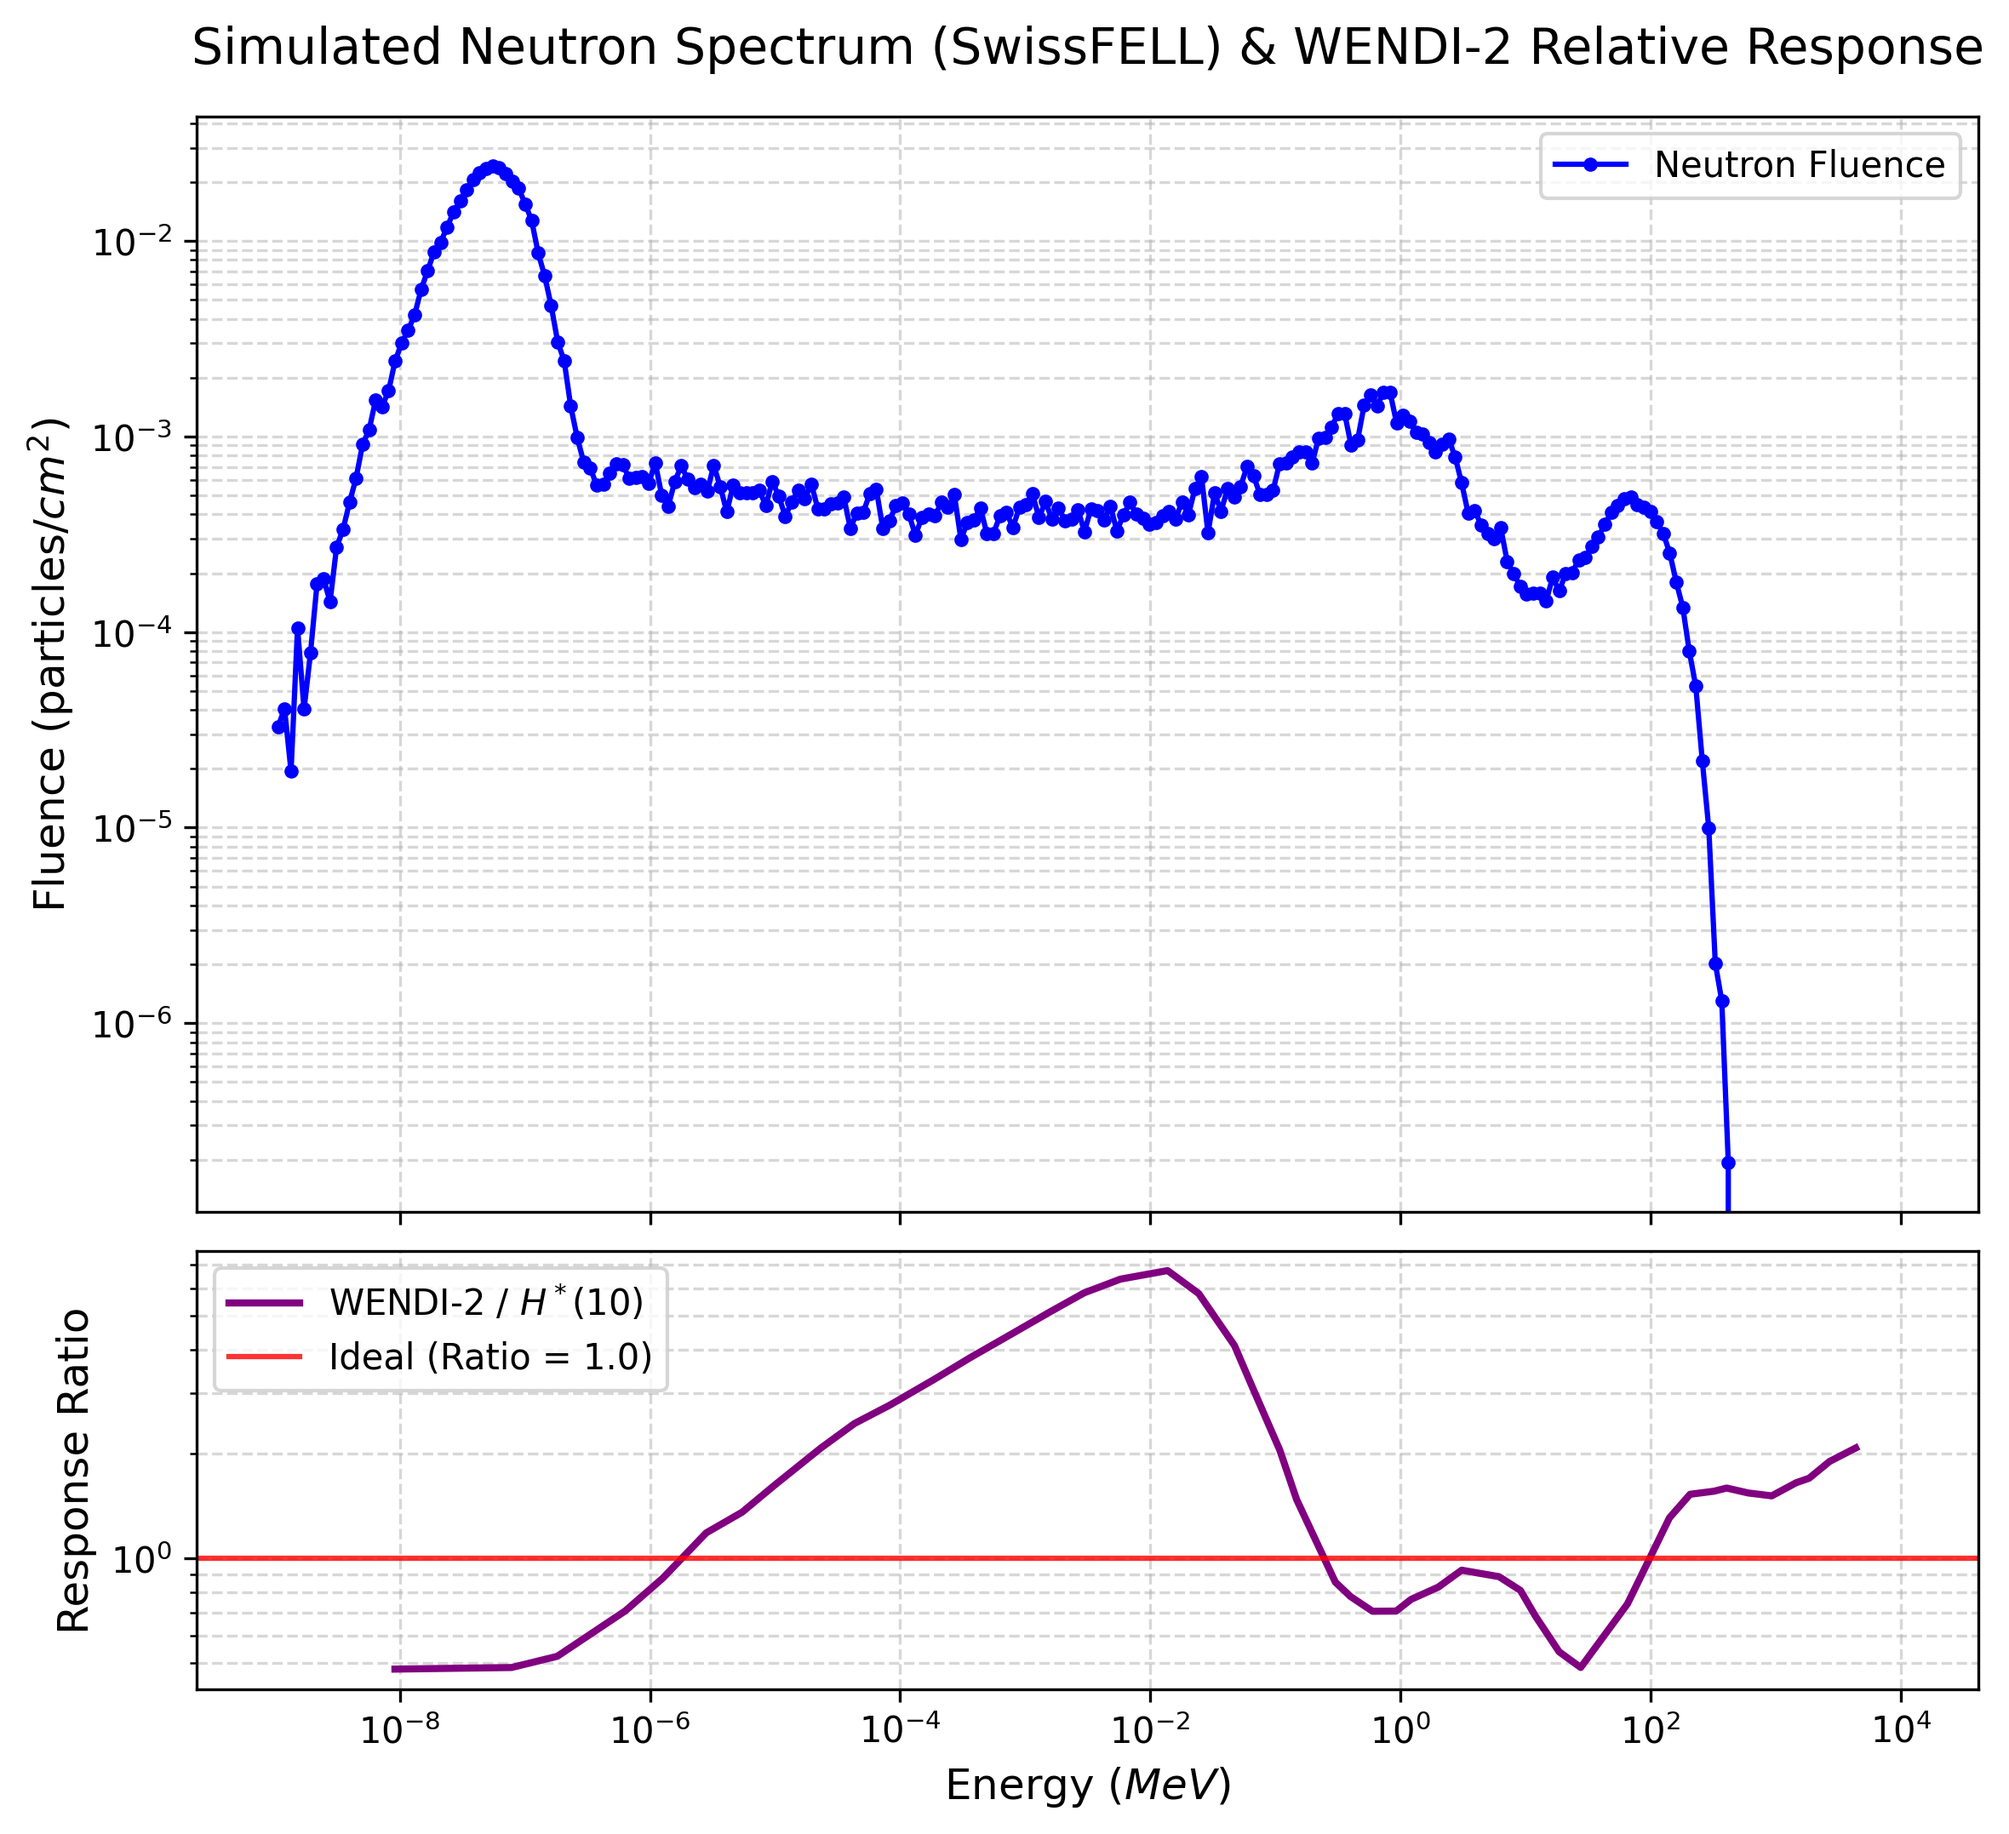
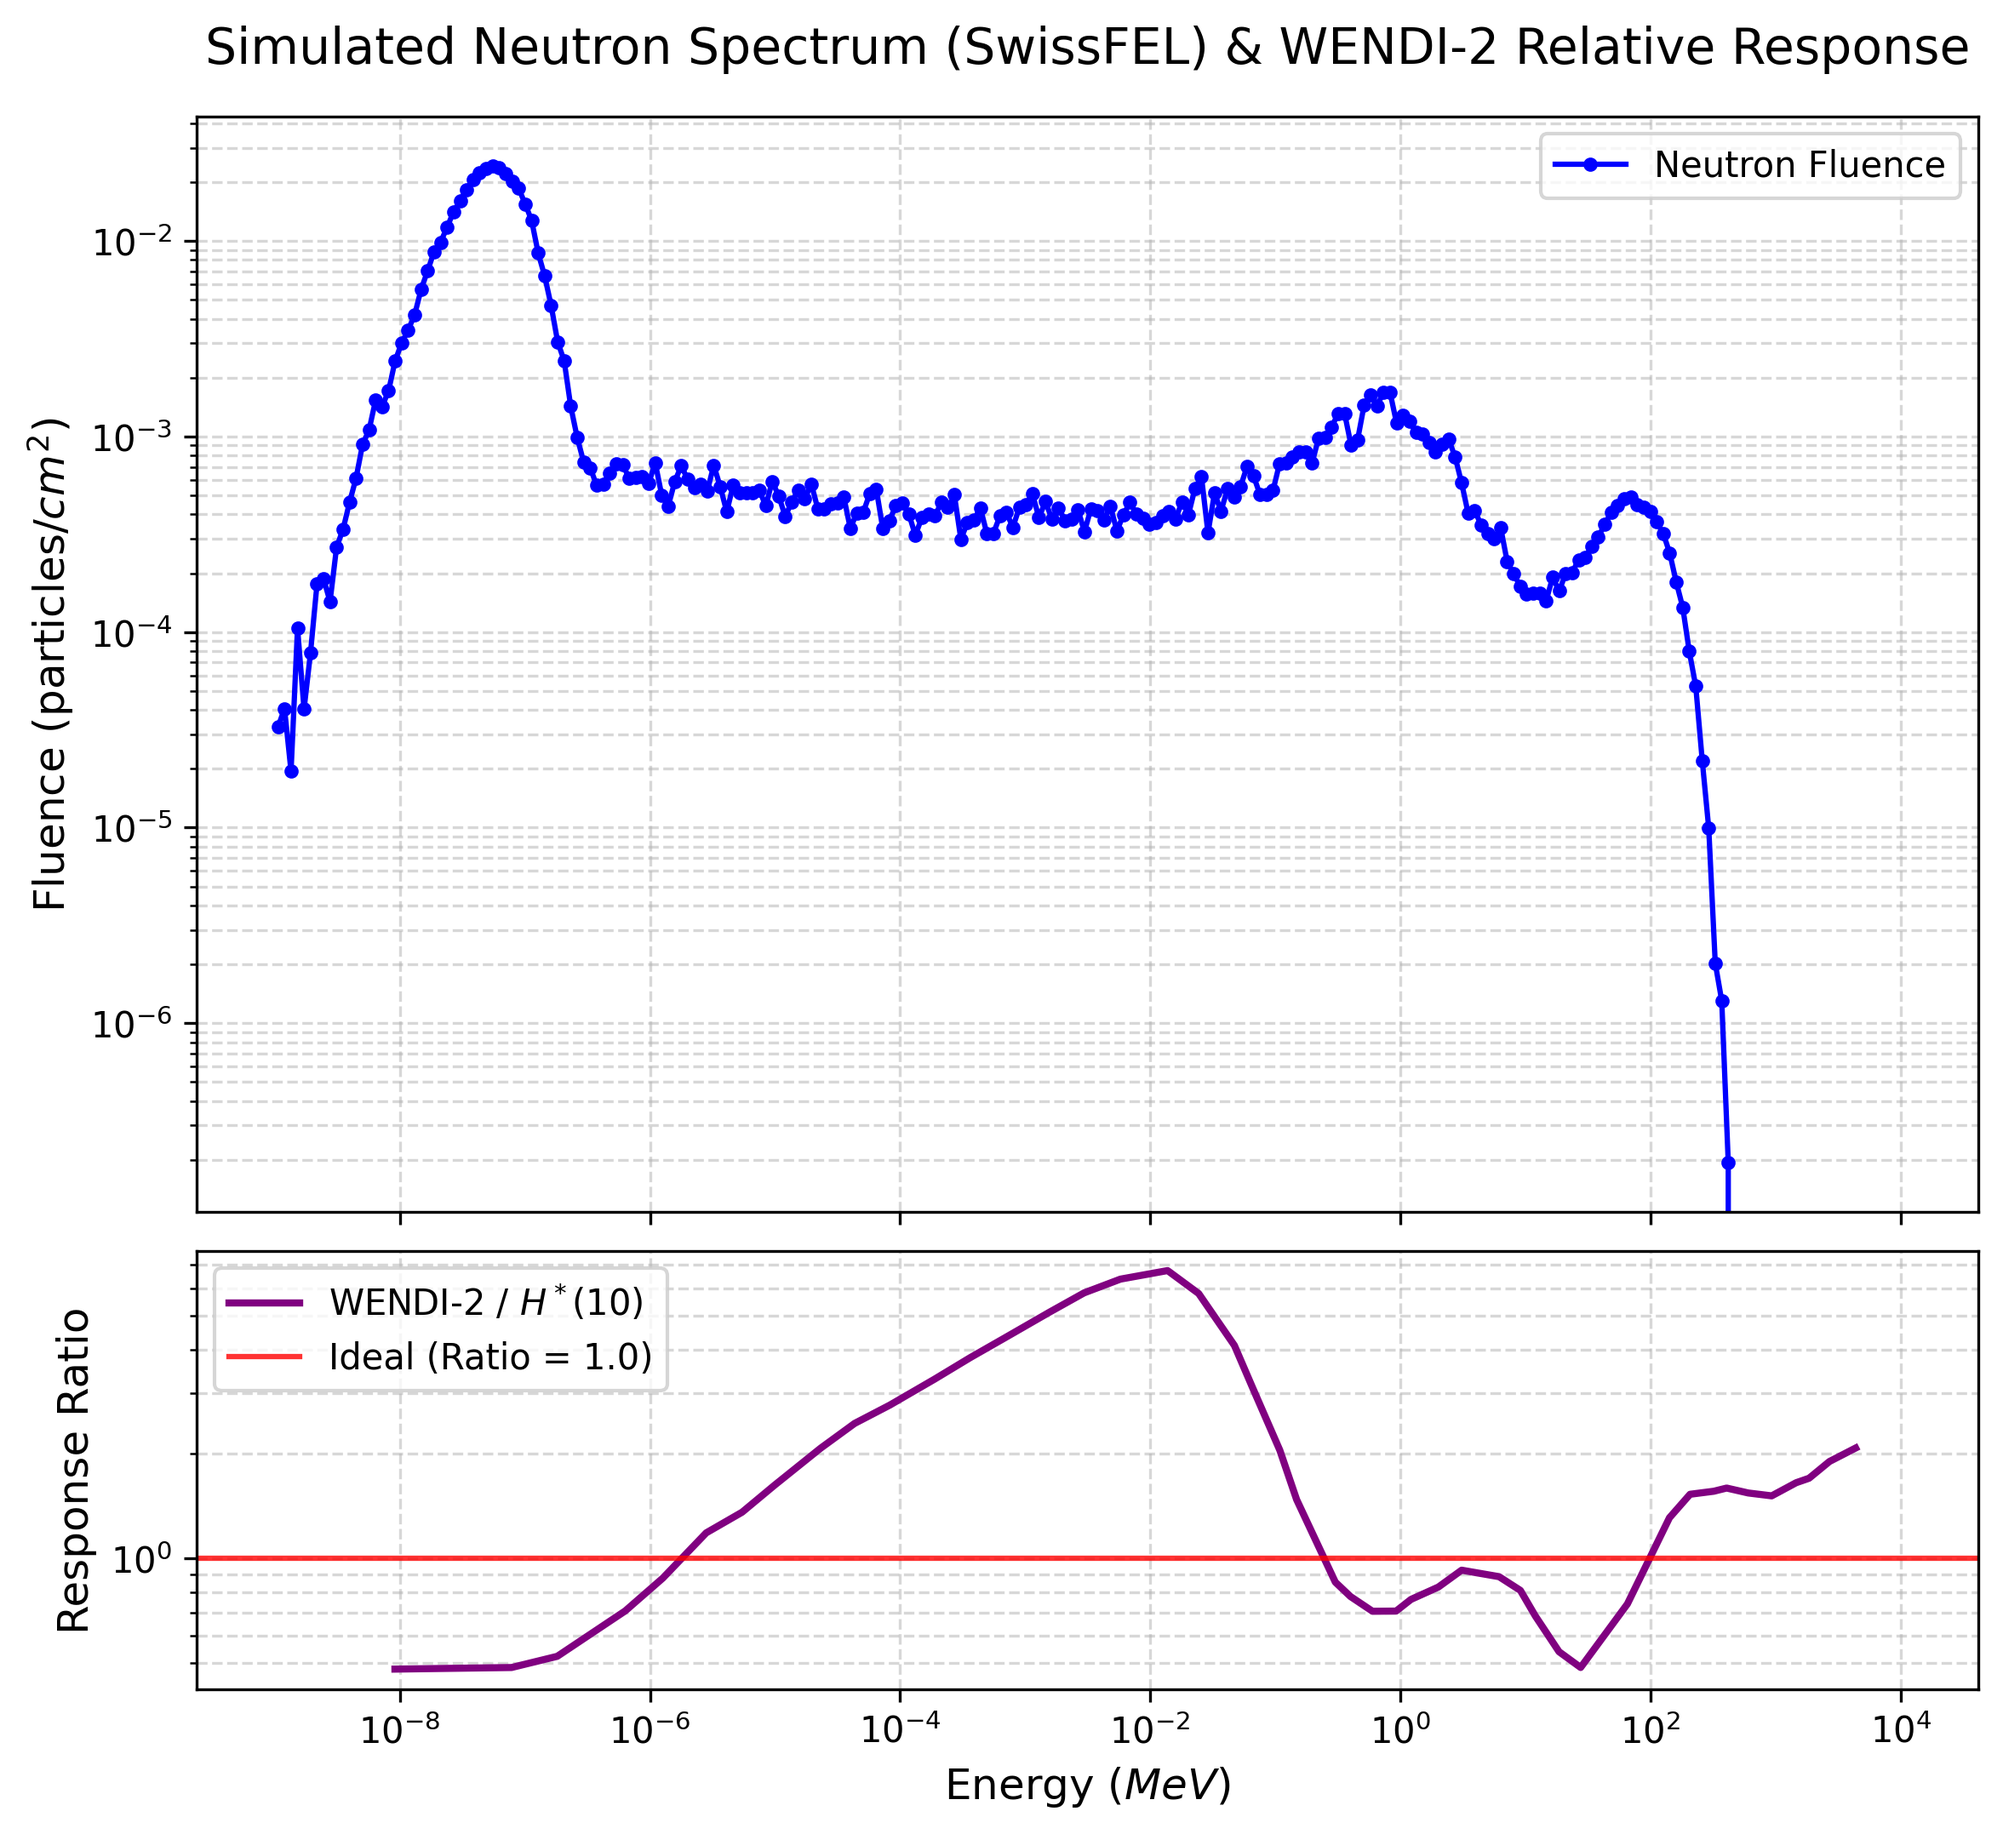
Fix SwissFEL name
Fix mispelling in code and update one image that includes the name.

diff --git a/WENDI2_responsefolding/WENDI2-NeutronFolding.py b/WENDI2_responsefolding/WENDI2-NeutronFolding.py
@@ -1,14 +1,14 @@
 '''
-This code was created to calculate the correction of the WENDI-2 neutron detector dose measurement when used in the SwissFell neutron radiation environment.
-Specifically the neutron fluence was calculated with FLUKA based on the 2025 measurement campaign at the PSI SwissFell.
+This code was created to calculate the correction of the WENDI-2 neutron detector dose measurement when used in the SwissFel neutron radiation environment.
+Specifically the neutron fluence was calculated with FLUKA based on the 2025 measurement campaign at the PSI SwissFel.
 Data for the WENDI-2 neutron response come from literature reported below in comments.
 '''
 
-# This is the lower side of the energy bins for the neutron flux simulated with FLUKA in 2025 at SwissFELL
+# This is the lower side of the energy bins for the neutron flux simulated with FLUKA in 2025 at SwissFEL
 neutron_flux_bin_min =  [1.0000000E-12, 1.1271975E-12, 1.2705742E-12, 1.4321880E-12, 1.6143588E-12, 1.8197013E-12, 2.0511626E-12, 2.3120653E-12, 2.6061542E-12, 2.9376503E-12, 3.3113124E-12, 3.7325030E-12, 4.2072678E-12, 4.7424222E-12, 5.3456462E-12, 6.0255989E-12, 6.7920400E-12, 7.6559705E-12, 8.6297905E-12, 9.7274784E-12, 1.0964789E-11, 1.2359482E-11, 1.3931579E-11, 1.5703640E-11, 1.7701103E-11, 1.9952638E-11, 2.2490567E-11, 2.5351308E-11, 2.8575930E-11, 3.2210720E-11, 3.6307842E-11, 4.0926110E-11, 4.6131807E-11, 5.1999658E-11, 5.8613885E-11, 6.6069421E-11, 7.4473282E-11, 8.3946100E-11, 9.4623837E-11, 1.0665975E-10, 1.2022661E-10, 1.3551912E-10, 1.5275682E-10, 1.7218710E-10, 1.9408886E-10, 2.1877648E-10, 2.4660432E-10, 2.7797176E-10, 3.1332906E-10, 3.5318373E-10, 3.9810782E-10, 4.4874612E-10, 5.0582555E-10, 5.7016530E-10, 6.4268890E-10, 7.2443723E-10, 8.1658386E-10, 9.2045122E-10, 1.0375304E-09, 1.1695016E-09, 1.3182593E-09, 1.4859387E-09, 1.6749463E-09, 1.8879953E-09, 2.1281434E-09, 2.3988380E-09, 2.7039644E-09, 3.0479019E-09, 3.4355871E-09, 3.8725854E-09, 4.3651691E-09, 4.9204072E-09, 5.5462706E-09, 6.2517418E-09, 7.0469484E-09, 7.9433020E-09, 8.9536698E-09, 1.0092554E-08, 1.1376303E-08, 1.2823340E-08, 1.4454436E-08, 1.6293004E-08, 1.8365434E-08, 2.0701469E-08, 2.3334646E-08, 2.6302754E-08, 2.9648398E-08, 3.3419603E-08, 3.7670489E-08, 4.2462077E-08, 4.7863153E-08, 5.3951222E-08, 6.0813683E-08, 6.8549042E-08, 7.7268297E-08, 8.7096630E-08, 9.8175100E-08, 1.1066273E-07, 1.2473876E-07, 1.4060521E-07, 1.5848983E-07, 1.7864934E-07, 2.0137311E-07, 2.2698727E-07, 2.5585948E-07, 2.8840412E-07, 3.2508845E-07, 3.6643888E-07, 4.1304892E-07, 4.6558779E-07, 5.2480937E-07, 5.9156383E-07, 6.6680923E-07, 7.5162569E-07, 8.4723058E-07, 9.5499615E-07, 1.0764694E-06, 1.2133936E-06, 1.3677343E-06, 1.5417065E-06, 1.7378076E-06, 1.9588524E-06, 2.2080135E-06, 2.4888673E-06, 2.8054451E-06, 3.1622910E-06, 3.5645262E-06, 4.0179252E-06, 4.5289949E-06, 5.1050720E-06, 5.7544244E-06, 6.4863725E-06, 7.3114229E-06, 8.2414172E-06, 9.2897062E-06, 1.0471332E-05, 1.1803259E-05, 1.3304604E-05, 1.4996917E-05, 1.6904489E-05, 1.9054694E-05, 2.1478407E-05, 2.4210405E-05, 2.7289909E-05, 3.0761115E-05, 3.4673852E-05, 3.9084276E-05, 4.4055701E-05, 4.9659477E-05, 5.5976037E-05, 6.3096049E-05, 7.1121707E-05, 8.0168211E-05, 9.0365400E-05, 1.0185967E-04, 1.1481595E-04, 1.2942024E-04, 1.4588219E-04, 1.6443802E-04, 1.8535415E-04, 2.0893072E-04, 2.3550619E-04, 2.6546197E-04, 2.9922806E-04, 3.3728912E-04, 3.8019146E-04, 4.2855091E-04, 4.8306148E-04, 5.4450566E-04, 6.1376544E-04, 6.9183490E-04, 7.7983458E-04, 8.7902747E-04, 9.9083758E-04, 1.1168697E-03, 1.2589328E-03, 1.4190659E-03, 1.5995674E-03, 1.8030284E-03, 2.0323689E-03, 2.2908812E-03, 2.5822758E-03, 2.9107349E-03, 3.2809728E-03, 3.6983043E-03, 4.1687191E-03, 4.6989699E-03, 5.2966666E-03, 5.9703896E-03, 6.7298091E-03, 7.5858231E-03, 8.5507212E-03, 9.6383514E-03, 1.0864326E-02, 1.2246241E-02, 1.3803933E-02, 1.5559757E-02, 1.7538920E-02, 1.9769827E-02, 2.2284498E-02, 2.5119031E-02, 2.8314108E-02, 3.1915594E-02, 3.5975177E-02, 4.0551126E-02, 4.5709126E-02, 5.1523220E-02, 5.8076844E-02, 6.5464064E-02, 7.3790938E-02, 8.3176956E-02, 9.3756847E-02, 0.1056825, 0.1191250, 0.1342774, 0.1513572, 0.1706095, 0.1923105, 0.2167720, 0.2443448, 0.2754248, 0.3104582, 0.3499477, 0.3944602, 0.4446345, 0.5011910, 0.5649412, 0.6368003, 0.7177996, 0.8091020, 0.9120178, 1.028024, 1.158786, 1.306181, 1.472324, 1.659600, 1.870697, 2.108645, 2.376859, 2.679189, 3.019976, 3.404109, 3.837103, 4.325173, 4.875324, 5.495454, 6.194462, 6.982381, 7.870522, 8.871633]
 neutron_flux_bin_min = [x*1000 for x in neutron_flux_bin_min] # convert GeV to MeV
 
-# This is the upper side of the energy bins for the neutron flux simulated with FLUKA in 2025 at SwissFELL
+# This is the upper side of the energy bins for the neutron flux simulated with FLUKA in 2025 at SwissFEL
 neutron_flux_bin_max = [1.1271975E-12, 1.2705742E-12, 1.4321880E-12, 1.6143588E-12, 1.8197013E-12, 2.0511626E-12, 2.3120653E-12, 2.6061542E-12, 2.9376503E-12, 3.3113124E-12, 3.7325030E-12, 4.2072678E-12, 4.7424222E-12, 5.3456462E-12, 6.0255989E-12, 6.7920400E-12, 7.6559705E-12, 8.6297905E-12, 9.7274784E-12, 1.0964789E-11, 1.2359482E-11, 1.3931579E-11, 1.5703640E-11, 1.7701103E-11, 1.9952638E-11, 2.2490567E-11, 2.5351308E-11, 2.8575930E-11, 3.2210720E-11, 3.6307842E-11, 4.0926110E-11, 4.6131807E-11, 5.1999658E-11, 5.8613885E-11, 6.6069421E-11, 7.4473282E-11, 8.3946100E-11, 9.4623837E-11, 1.0665975E-10, 1.2022661E-10, 1.3551912E-10, 1.5275682E-10, 1.7218710E-10, 1.9408886E-10, 2.1877648E-10, 2.4660432E-10, 2.7797176E-10, 3.1332906E-10, 3.5318373E-10, 3.9810782E-10, 4.4874612E-10, 5.0582555E-10, 5.7016530E-10, 6.4268890E-10, 7.2443723E-10, 8.1658386E-10, 9.2045122E-10, 1.0375304E-09, 1.1695016E-09, 1.3182593E-09, 1.4859387E-09, 1.6749463E-09, 1.8879953E-09, 2.1281434E-09, 2.3988380E-09, 2.7039644E-09, 3.0479019E-09, 3.4355871E-09, 3.8725854E-09, 4.3651691E-09, 4.9204072E-09, 5.5462706E-09, 6.2517418E-09, 7.0469484E-09, 7.9433020E-09, 8.9536698E-09, 1.0092554E-08, 1.1376303E-08, 1.2823340E-08, 1.4454436E-08, 1.6293004E-08, 1.8365434E-08, 2.0701469E-08, 2.3334646E-08, 2.6302754E-08, 2.9648398E-08, 3.3419603E-08, 3.7670489E-08, 4.2462077E-08, 4.7863153E-08, 5.3951222E-08, 6.0813683E-08, 6.8549042E-08, 7.7268297E-08, 8.7096630E-08, 9.8175100E-08, 1.1066273E-07, 1.2473876E-07, 1.4060521E-07, 1.5848983E-07, 1.7864934E-07, 2.0137311E-07, 2.2698727E-07, 2.5585948E-07, 2.8840412E-07, 3.2508845E-07, 3.6643888E-07, 4.1304892E-07, 4.6558779E-07, 5.2480937E-07, 5.9156383E-07, 6.6680923E-07, 7.5162569E-07, 8.4723058E-07, 9.5499615E-07, 1.0764694E-06, 1.2133936E-06, 1.3677343E-06, 1.5417065E-06, 1.7378076E-06, 1.9588524E-06, 2.2080135E-06, 2.4888673E-06, 2.8054451E-06, 3.1622910E-06, 3.5645262E-06, 4.0179252E-06, 4.5289949E-06, 5.1050720E-06, 5.7544244E-06, 6.4863725E-06, 7.3114229E-06, 8.2414172E-06, 9.2897062E-06, 1.0471332E-05, 1.1803259E-05, 1.3304604E-05, 1.4996917E-05, 1.6904489E-05, 1.9054694E-05, 2.1478407E-05, 2.4210405E-05, 2.7289909E-05, 3.0761115E-05, 3.4673852E-05, 3.9084276E-05, 4.4055701E-05, 4.9659477E-05, 5.5976037E-05, 6.3096049E-05, 7.1121707E-05, 8.0168211E-05, 9.0365400E-05, 1.0185967E-04, 1.1481595E-04, 1.2942024E-04, 1.4588219E-04, 1.6443802E-04, 1.8535415E-04, 2.0893072E-04, 2.3550619E-04, 2.6546197E-04, 2.9922806E-04, 3.3728912E-04, 3.8019146E-04, 4.2855091E-04, 4.8306148E-04, 5.4450566E-04, 6.1376544E-04, 6.9183490E-04, 7.7983458E-04, 8.7902747E-04, 9.9083758E-04, 1.1168697E-03, 1.2589328E-03, 1.4190659E-03, 1.5995674E-03, 1.8030284E-03, 2.0323689E-03, 2.2908812E-03, 2.5822758E-03, 2.9107349E-03, 3.2809728E-03, 3.6983043E-03, 4.1687191E-03, 4.6989699E-03, 5.2966666E-03, 5.9703896E-03, 6.7298091E-03, 7.5858231E-03, 8.5507212E-03, 9.6383514E-03, 1.0864326E-02, 1.2246241E-02, 1.3803933E-02, 1.5559757E-02, 1.7538920E-02, 1.9769827E-02, 2.2284498E-02, 2.5119031E-02, 2.8314108E-02, 3.1915594E-02, 3.5975177E-02, 4.0551126E-02, 4.5709126E-02, 5.1523220E-02, 5.8076844E-02, 6.5464064E-02, 7.3790938E-02, 8.3176956E-02, 9.3756847E-02, 0.1056825, 0.1191250, 0.1342774, 0.1513572, 0.1706095, 0.1923105, 0.2167720, 0.2443448, 0.2754248, 0.3104582, 0.3499477, 0.3944602, 0.4446345, 0.5011910, 0.5649412, 0.6368003, 0.7177996, 0.8091020, 0.9120178, 1.028024, 1.158786, 1.306181, 1.472324, 1.659600, 1.870697, 2.108645, 2.376859, 2.679189, 3.019976, 3.404109, 3.837103, 4.325173, 4.875324, 5.495454, 6.194462, 6.982381, 7.870522, 8.871633, 10.00008]
 neutron_flux_bin_max = [x*1000 for x in neutron_flux_bin_max] # convert GeV to MeV
 
@@ -156,7 +156,7 @@ fig, (ax_top, ax_bottom) = plt.subplots(
 ax_top.plot(E_center, fluence, color='blue', label='Neutron Fluence', linestyle='-', marker='.')
 ax_top.set_yscale('log')
 ax_top.set_ylabel('Fluence (particles/$cm^2$)', fontsize=12)
-ax_top.set_title('Simulated Neutron Spectrum (SwissFELL) & WENDI-2 Relative Response', fontsize=14, pad=15)
+ax_top.set_title('Simulated Neutron Spectrum (SwissFEL) & WENDI-2 Relative Response', fontsize=14, pad=15)
 ax_top.grid(True, which="both", ls="--", alpha=0.5)
 ax_top.legend(loc='upper right')
 
@@ -180,7 +180,7 @@ plt.subplots_adjust(hspace=0.05)
 plt.savefig('stacked_fluence_and_ratio.png', dpi=300, bbox_inches='tight')
 plt.close(fig)
 
-# --- GLOBAL BIAS CALCULATION (WENDI-2 Over/Under-response for SwissFELL Neutron Spectrum) ---
+# --- GLOBAL BIAS CALCULATION (WENDI-2 Over/Under-response for SwissFEL Neutron Spectrum) ---
 
 from scipy.interpolate import interp1d
 
